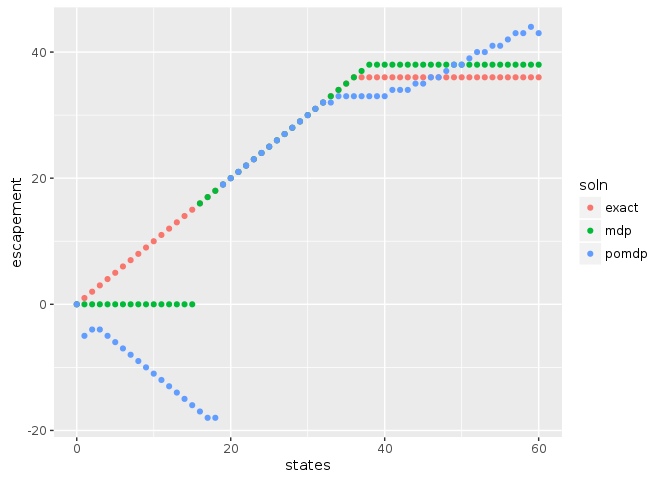
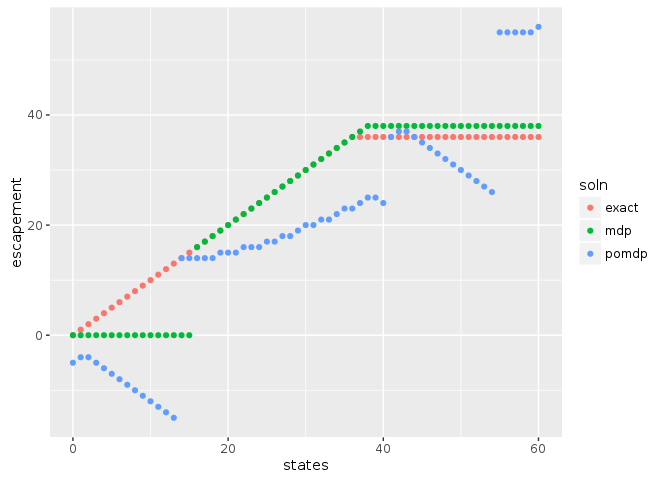
include simulation routine, example with allee

diff --git a/inst/notebook/allee-ex.md b/inst/notebook/allee-ex.md
@@ -7,21 +7,6 @@ First, we will load the libraries needed for this example.  The MDPtoolbox provi
 
 ```r
 library("MDPtoolbox")
-```
-
-```
-## Loading required package: Matrix
-```
-
-```
-## Loading required package: linprog
-```
-
-```
-## Loading required package: lpSolve
-```
-
-```r
 library("appl")
 knitr::opts_chunk$set(cache = TRUE)
 ```
@@ -326,23 +311,16 @@ soln
 policies <- data.frame(states = states,
                        exact = states - exact_policy,
                        mdp = states - actions[mdp$policy],
-                       pomdp = states - soln$policy)
-
-library("tidyr")
+                       pomdp = states - actions[soln$policy])
 ```
 
 ```
-## 
-## Attaching package: 'tidyr'
-```
-
-```
-## The following object is masked from 'package:Matrix':
-## 
-##     expand
+## Warning in states - actions[soln$policy]: longer object length is not a
+## multiple of shorter object length
 ```
 
 ```r
+library("tidyr")
 library("ggplot2")
 tidyr::gather(policies, soln, escapement, -states) %>%
   ggplot2::ggplot(ggplot2::aes(states, escapement, col = soln)) + ggplot2::geom_point()
@@ -350,3 +328,27 @@ tidyr::gather(policies, soln, escapement, -states) %>%
 
 ![](allee-ex_files/figure-html/unnamed-chunk-8-1.png)<!-- -->
 
+
+Simulate replicates of a given policy under a given transition & observation matrix:
+
+
+```r
+sim_policy <- function(transition, utility, policy, x0, Tmax){
+  state <- action <- value <- observation <- numeric(Tmax)
+  time <- 1:(Tmax-1)
+  state[1] <- x0
+  for(t in time){
+
+    obs_prob <- transition[state[t], , action[t]]
+    observation[t] <- sample(1:n_z, 1, prob = obs_prob)
+    action[t] <- policy[obs_state[t]]
+    value[t] <- utility[state[t], action[t]] * discount^(t-1)
+    trans_prob <- transition[state[t], , action[t]]
+    state[t+1] <- sample(1:n_s, 1, prob = trans_prob)
+
+
+  }
+
+  data.frame(time, state, observation, action, value)
+}
+```
